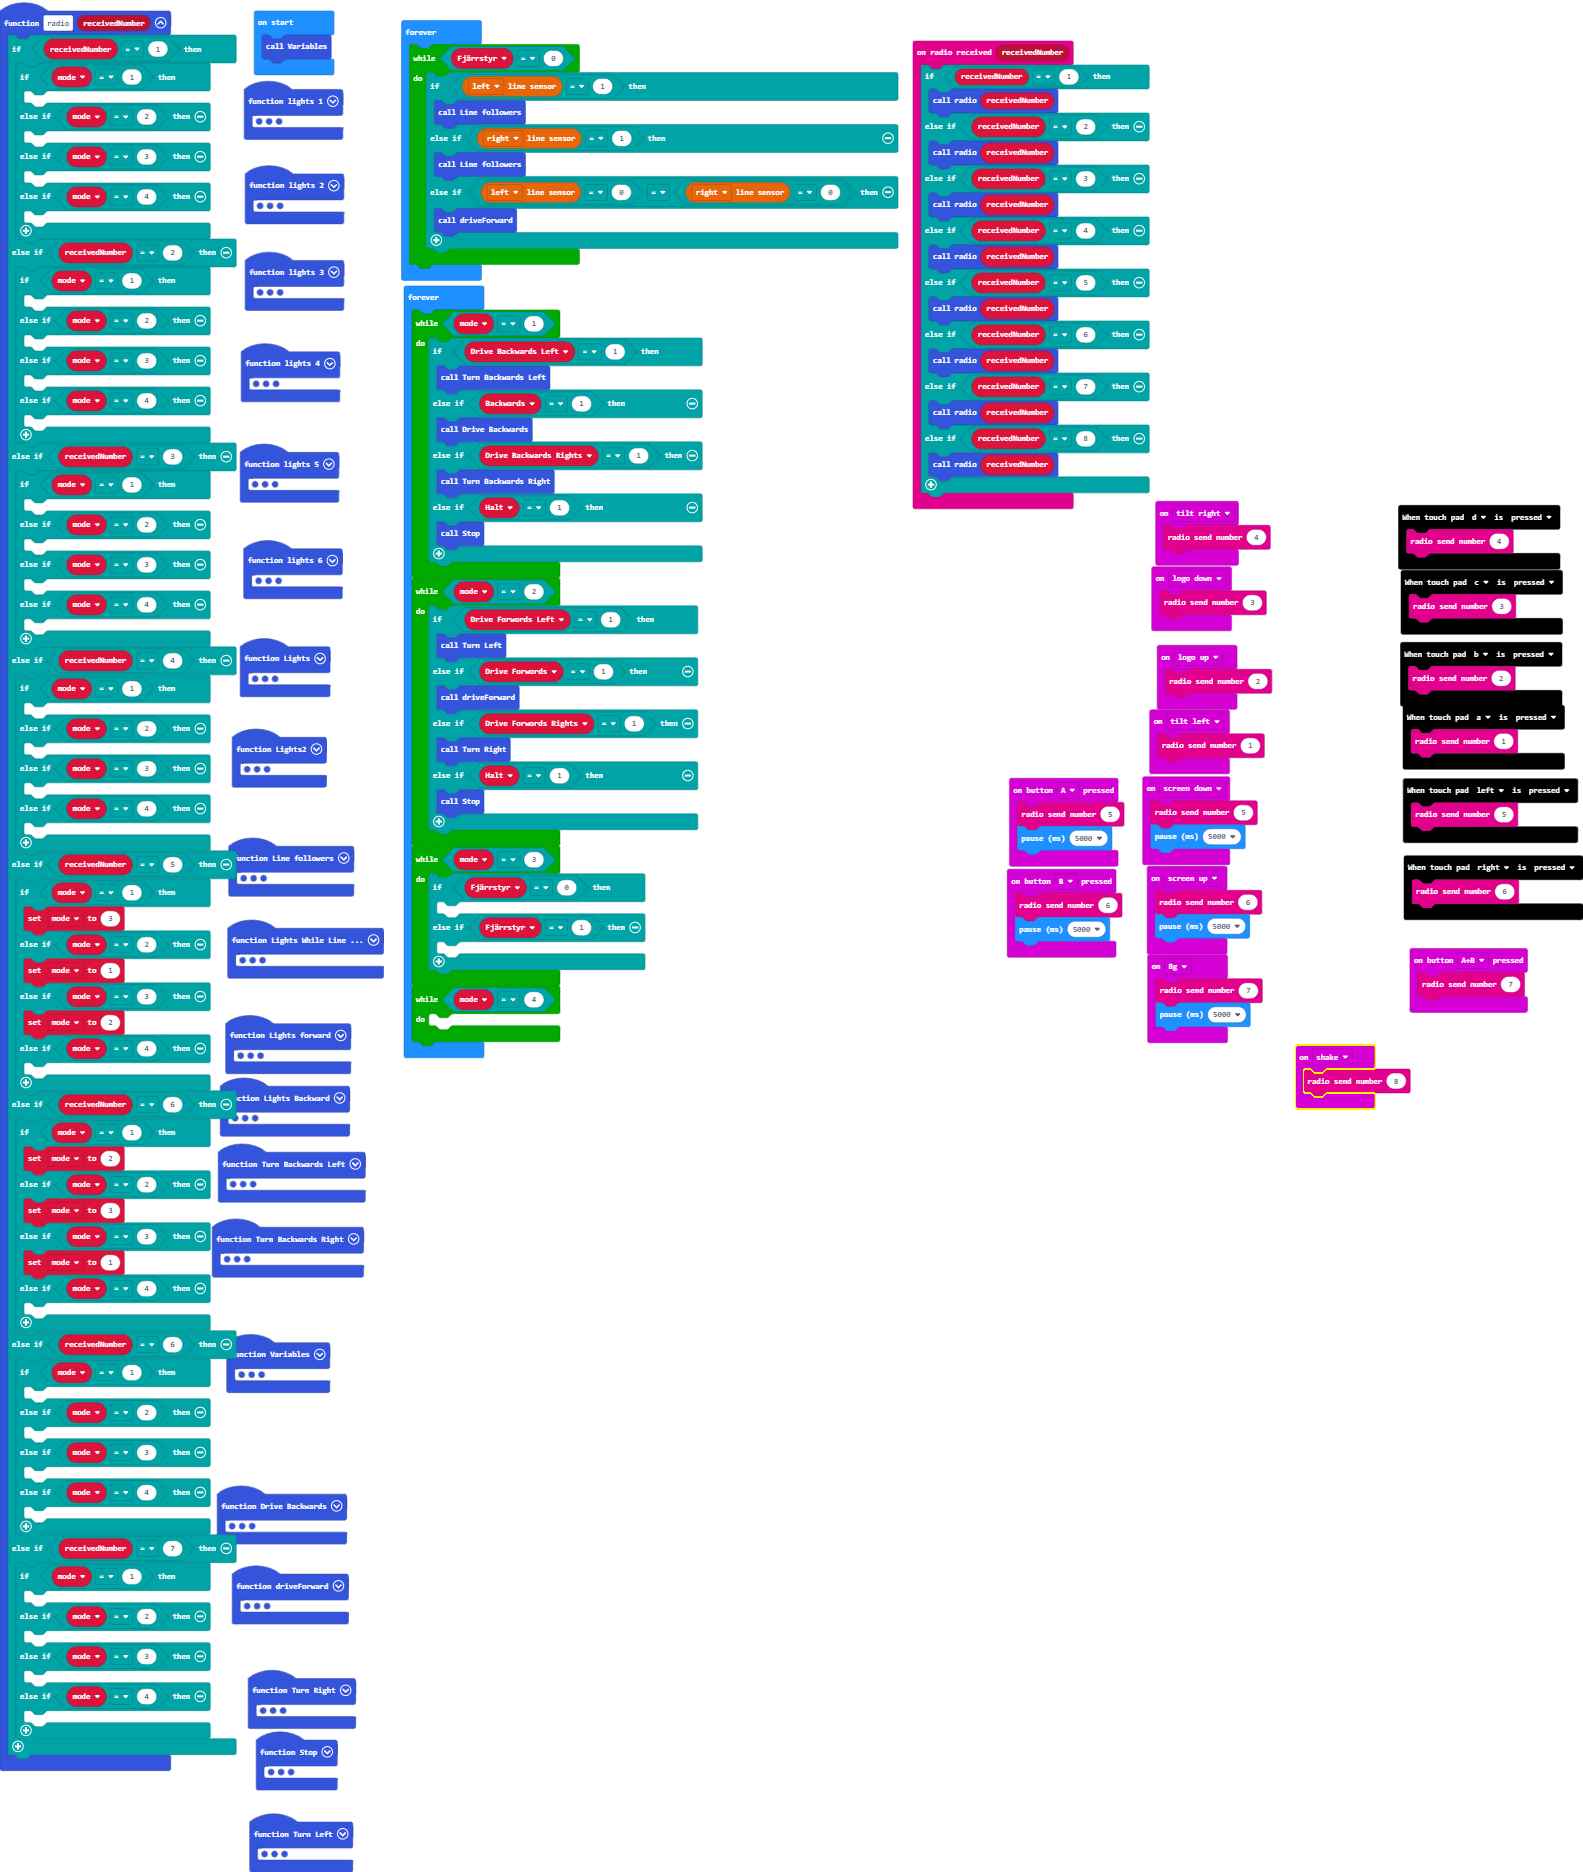
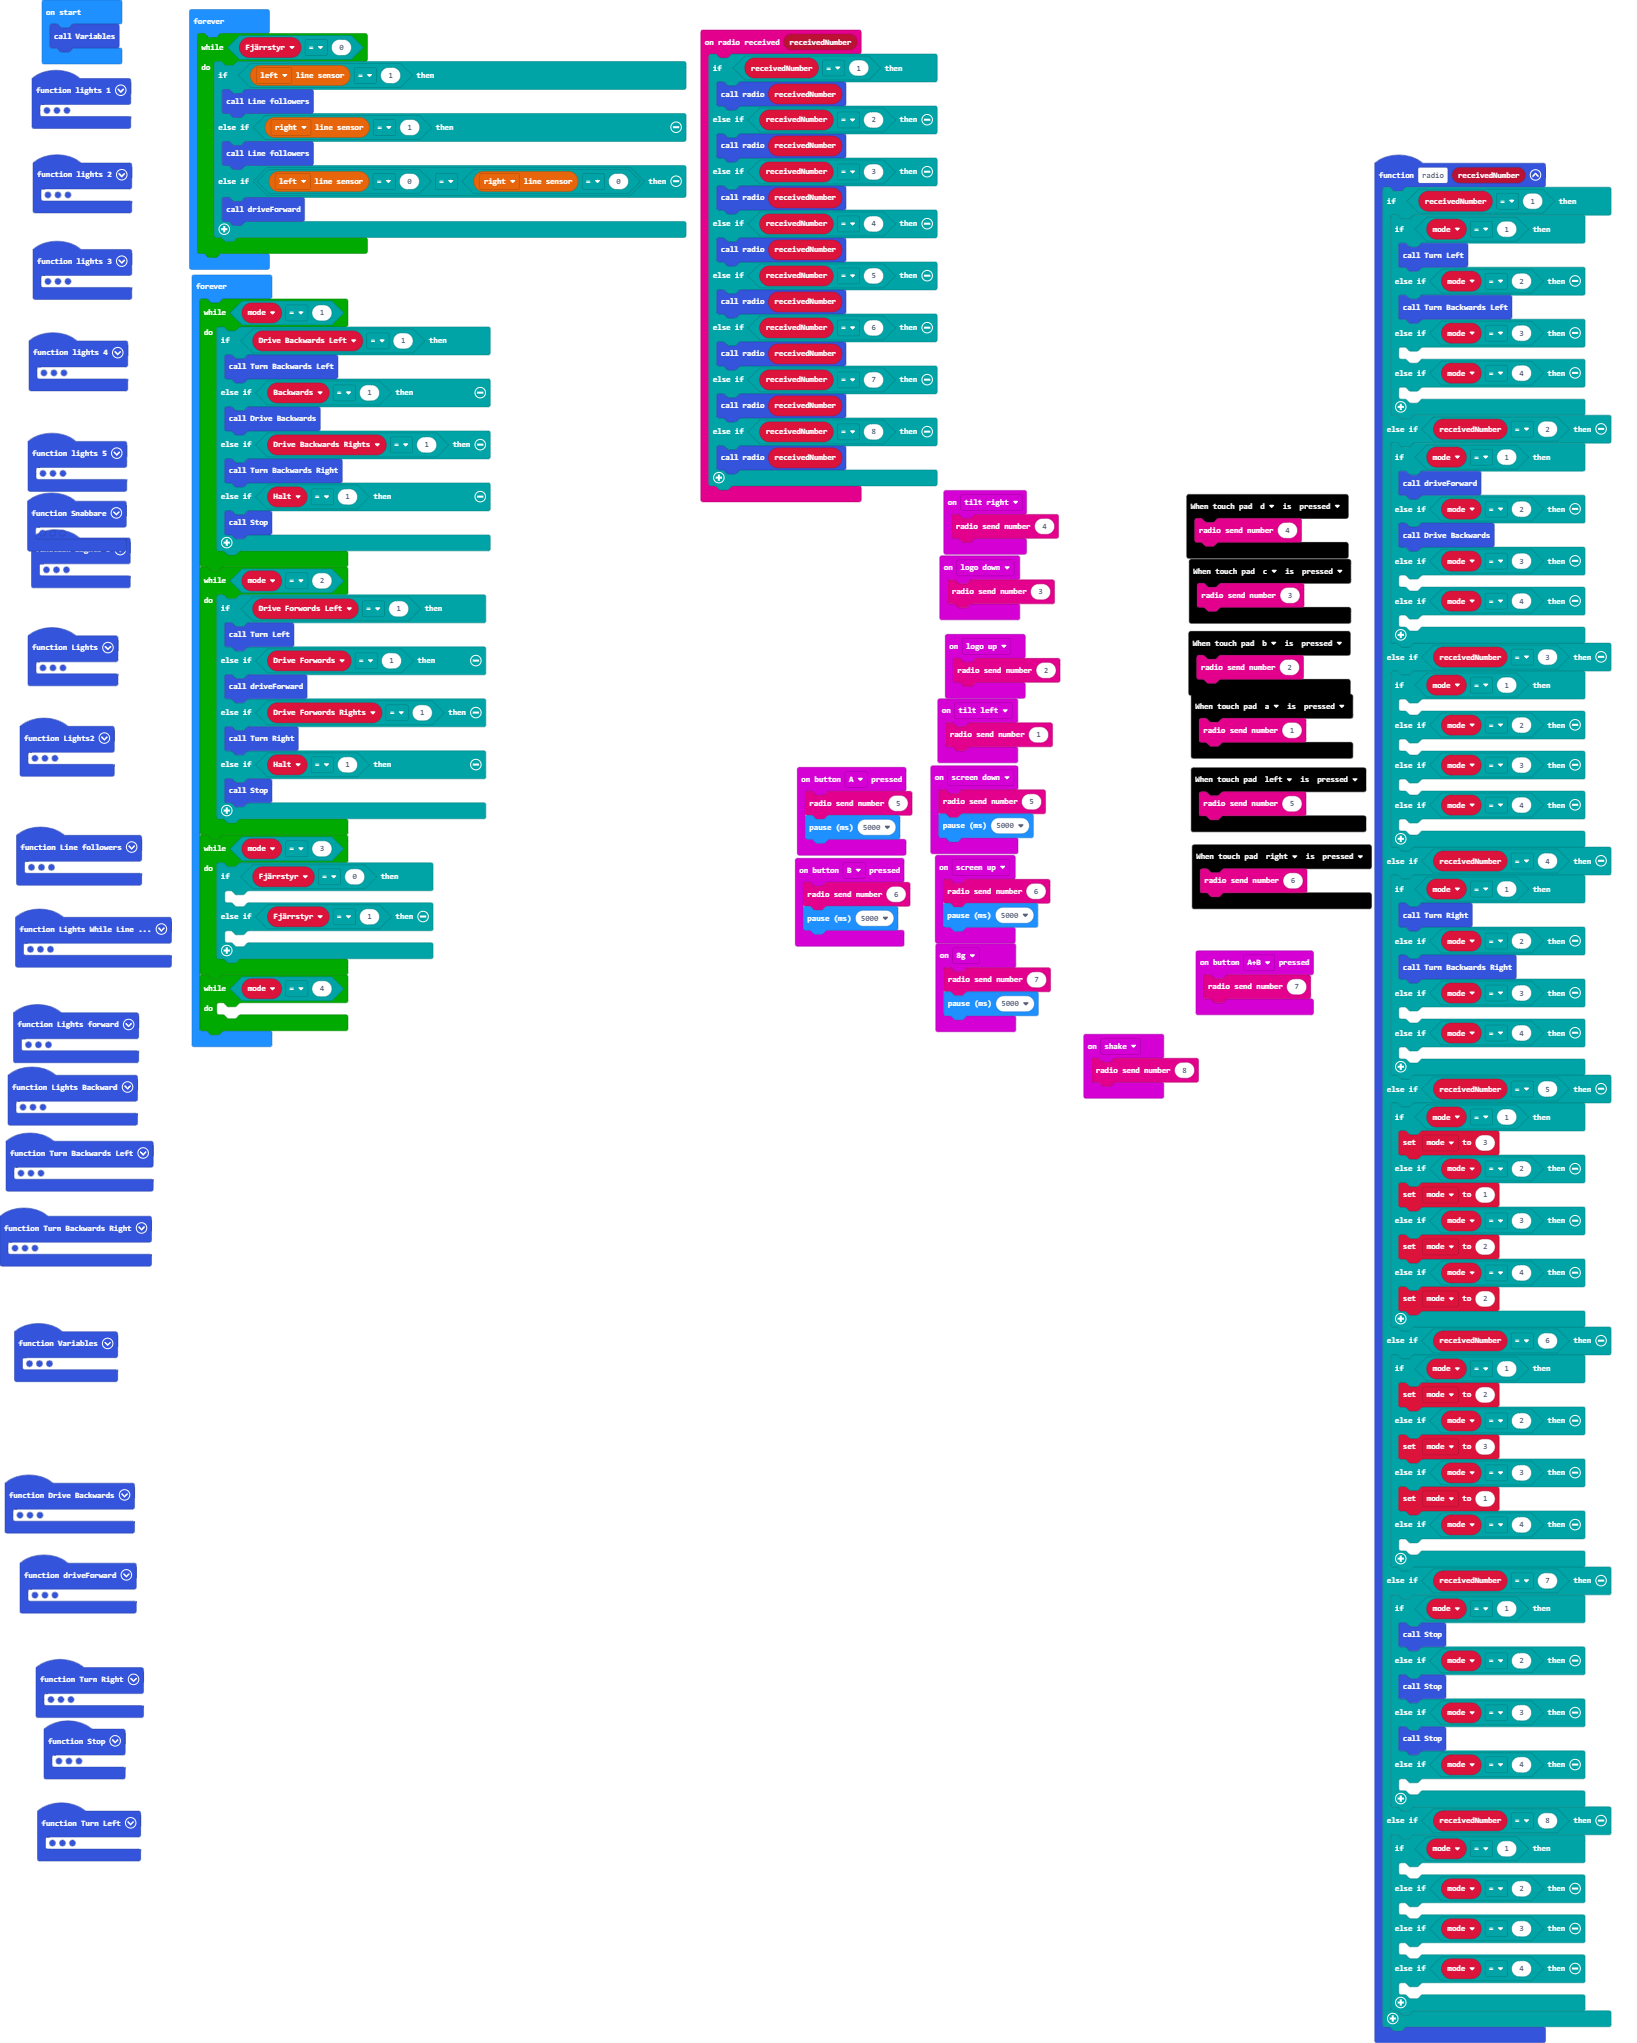
Update main.blocks, main.ts

diff --git a/main.ts b/main.ts
@@ -74,6 +74,9 @@ function lights_1 () {
     basic.pause(200)
     bitbot.ledClear()
 }
+function Snabbare () {
+    mode = Speed + 10
+}
 input.onGesture(Gesture.EightG, function () {
     radio.sendNumber(7)
     basic.pause(5000)
@@ -179,9 +182,9 @@ touchbit.on(touchbit.TouchPad.left, touchbit.TouchEvent.pressed, function () {
 function radio2 (receivedNumber: number) {
     if (receivedNumber == 1) {
         if (mode == 1) {
-        	
+            Turn_Left()
         } else if (mode == 2) {
-        	
+            Turn_Backwards_Left()
         } else if (mode == 3) {
         	
         } else if (mode == 4) {
@@ -189,9 +192,9 @@ function radio2 (receivedNumber: number) {
         }
     } else if (receivedNumber == 2) {
         if (mode == 1) {
-        	
+            driveForward()
         } else if (mode == 2) {
-        	
+            Drive_Backwards()
         } else if (mode == 3) {
         	
         } else if (mode == 4) {
@@ -209,9 +212,9 @@ function radio2 (receivedNumber: number) {
         }
     } else if (receivedNumber == 4) {
         if (mode == 1) {
-        	
+            Turn_Right()
         } else if (mode == 2) {
-        	
+            Turn_Backwards_Right()
         } else if (mode == 3) {
         	
         } else if (mode == 4) {
@@ -225,7 +228,7 @@ function radio2 (receivedNumber: number) {
         } else if (mode == 3) {
             mode = 2
         } else if (mode == 4) {
-        	
+            mode = 2
         }
     } else if (receivedNumber == 6) {
         if (mode == 1) {
@@ -237,17 +240,17 @@ function radio2 (receivedNumber: number) {
         } else if (mode == 4) {
         	
         }
-    } else if (receivedNumber == 6) {
+    } else if (receivedNumber == 7) {
         if (mode == 1) {
-        	
+            Stop()
         } else if (mode == 2) {
-        	
+            Stop()
         } else if (mode == 3) {
-        	
+            Stop()
         } else if (mode == 4) {
         	
         }
-    } else if (receivedNumber == 7) {
+    } else if (receivedNumber == 8) {
         if (mode == 1) {
         	
         } else if (mode == 2) {
